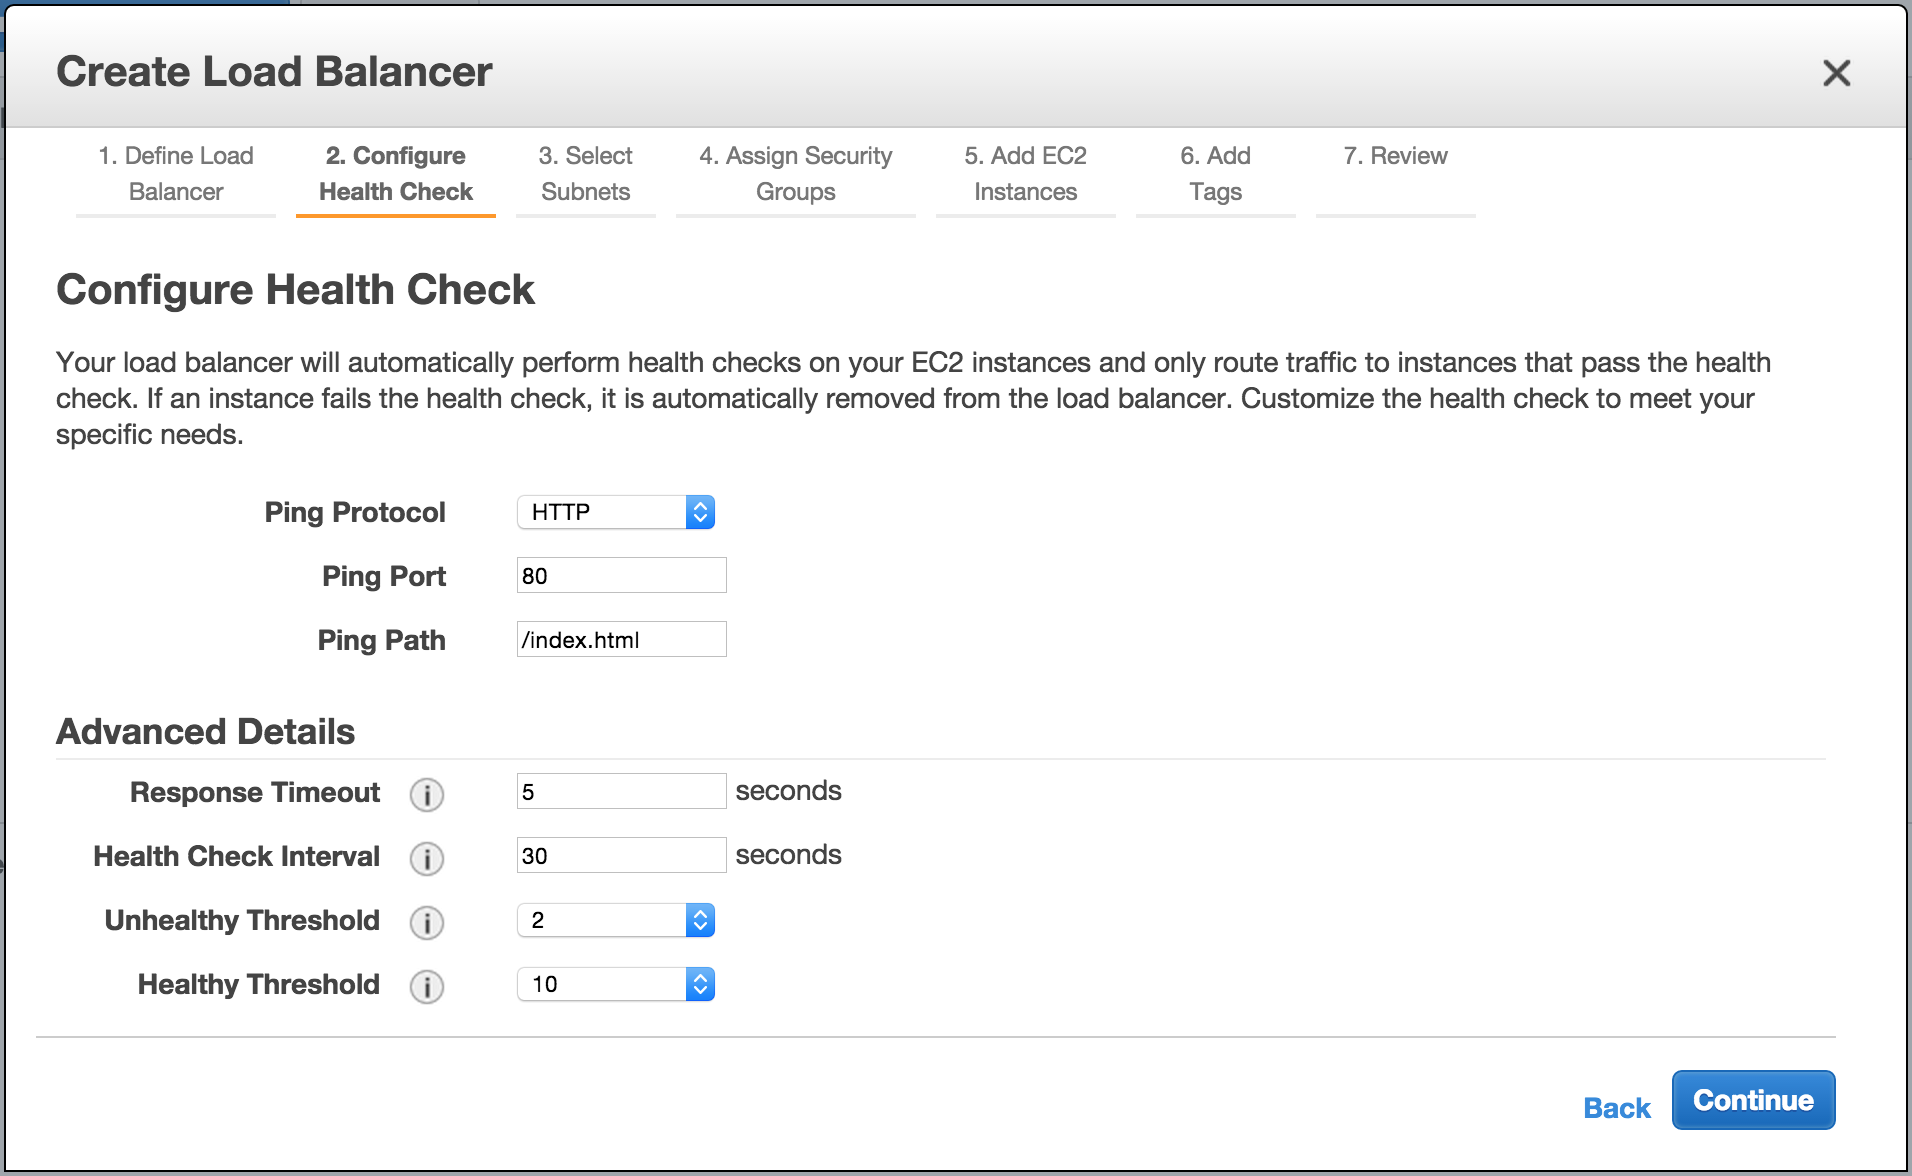
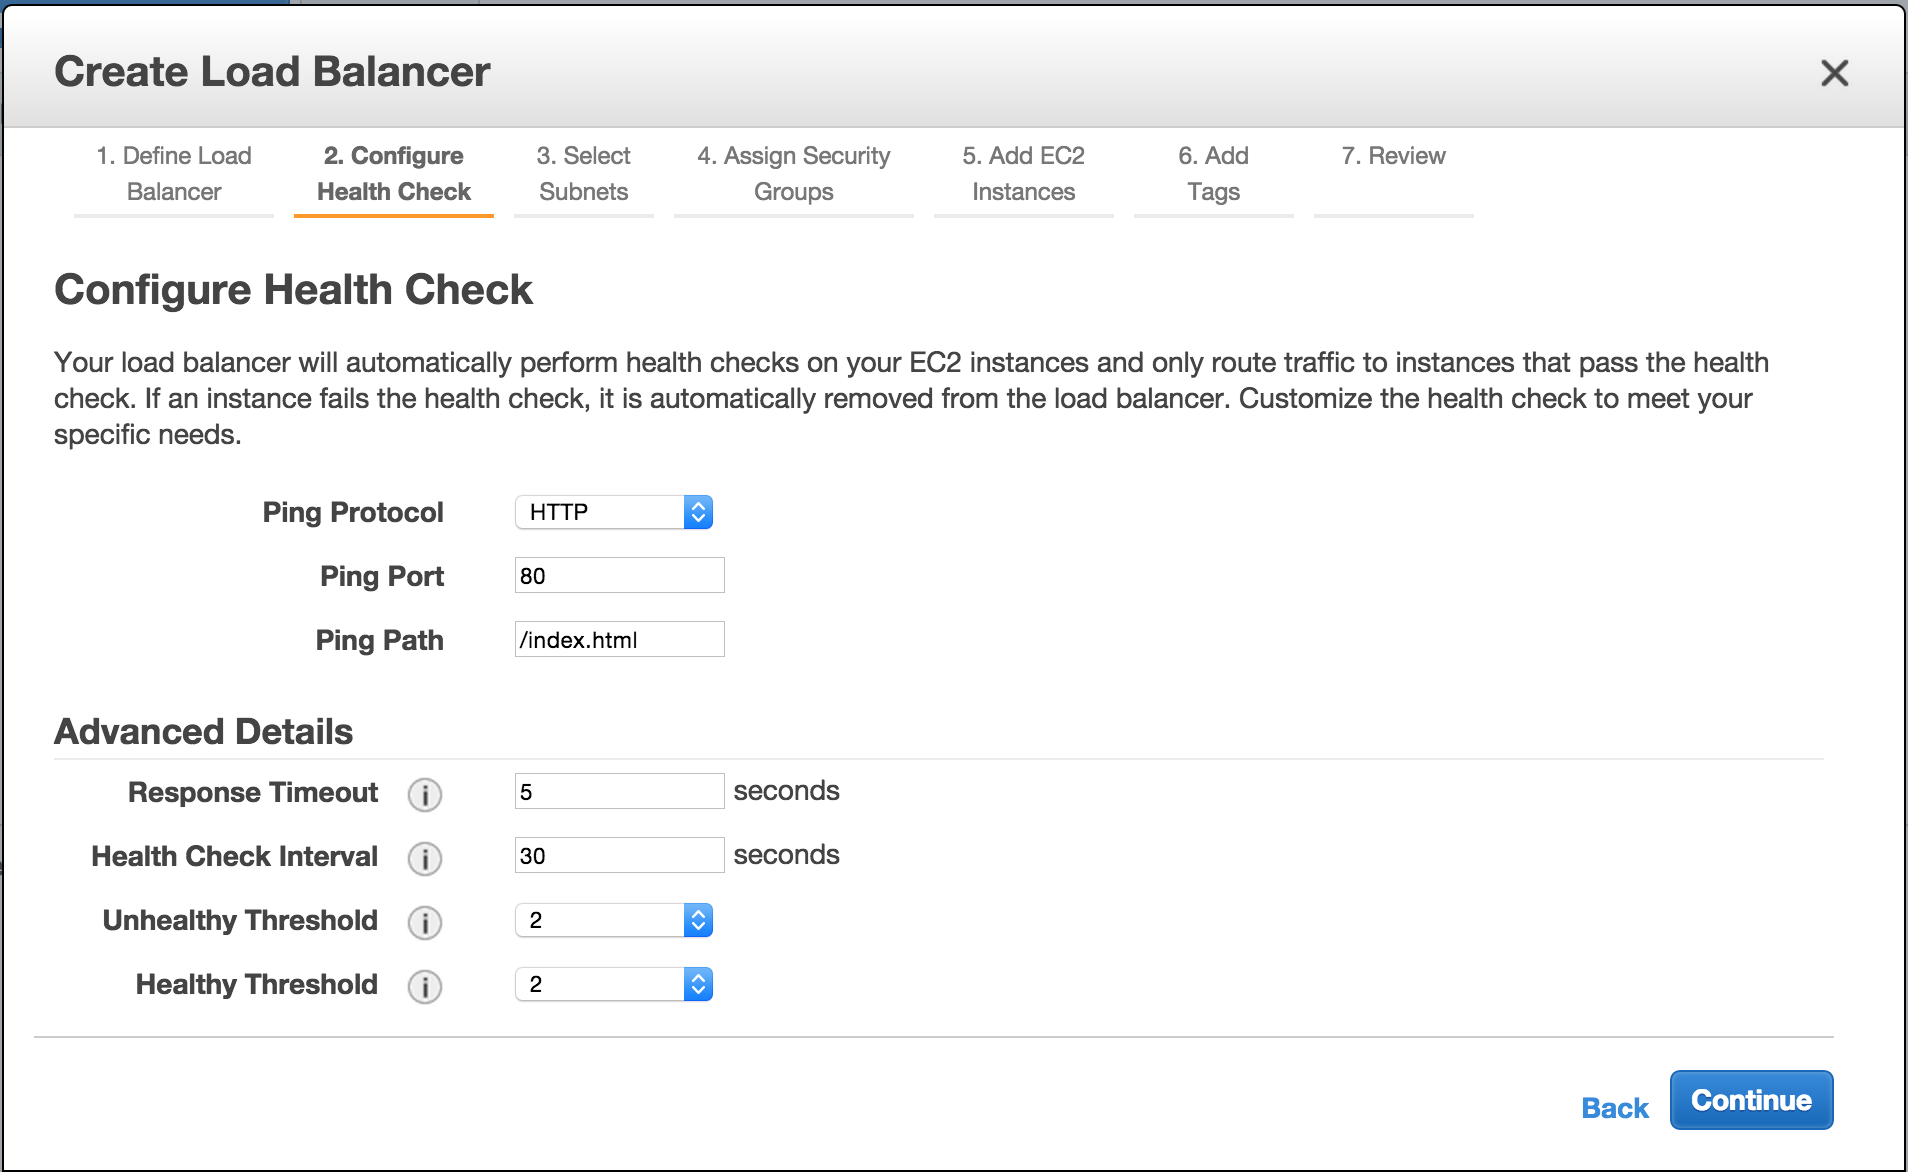
Update ELB launching guide

diff --git a/launch_elb_instance/README.md b/launch_elb_instance/README.md
@@ -3,15 +3,15 @@ Elastic Load Balancing automatically distributes incoming application traffic ac
 
 # Launching an ELB instance
 1. Visit **ELB Dashboard** at https://ap-northeast-1.console.aws.amazon.com/ec2/v2/home?region=ap-northeast-1#LoadBalancers:
-2. At the **ELB Dashboard** page, click Create Load Balancer. ![ELB Dashboard](./elb-dashboard.png)
+2. At the **ELB Dashboard** page, click **Create Load Balancer**. ![ELB Dashboard](./elb-dashboard.png)
 3. At the **Define Load Balancer** page, fill **Load Balancer name**, choose _workshop_ for **Create LB Inside**, and click **Continue**. ![Define Load Balancer](./elb-define-load-balancer.png)
-4. At the **Configure Health Check** page, leave as is and click **Continue**. ![Configure Health Check](./elb-configure-health-check.png)
+4. At the **Configure Health Check** page, set **Healthy Threshold** to _2_ and click **Continue**. ![Configure Health Check](./elb-configure-health-check.png)
 5. At the **Select Subnets** page, choose _public-1a_ and _public-1c_ under **Name**, and click **Continue**. ![Select Subnet](./elb-select-subnet.png)
 6. At the **Assign Security Groups** page, choose _Select an existing security group_ for **Assign a security group**, select _public-web_ under **Name**, and click **Continue**. ![Assign Security Groups](./elb-assign-security-group.png)
 7. At the **Add EC2 Instances** page, choose EC2 instances that will be registered to this ELB, and click **Continue**. ![Add EC2 Instances](./elb-add-ec2-instances.png)
 8. At the **Add Tags** page, fill appropriate tags (under **Key** and **Value**), and click **Continue**. ![Add Tags](./elb-add-tags.png)
 9. At the **Review** page, click **Create**. ![ELB Review](./elb-review.png)
-10. At the Create Load Balancer page, click Close. ![Create Load Balancer](./elb-launch-status.png)
+10. At the **Create Load Balancer** page, click **Close**. ![Create Load Balancer](./elb-launch-status.png)
 11. The newly created ELB will be shown at the **ELB Dashboard**. ![ELB Dashboard](./elb-dashboard-2.png)
 12. Navigate to **Instances** tab and wait until EC2 instance ready to accept traffic from load balancer (Indicated by _InService_ under **Status**). ![ELB EC2 Instances](./elb-dashboard-3.png)
 13. Visit ELB **DNS Name** under **Description** tab using web browser.
